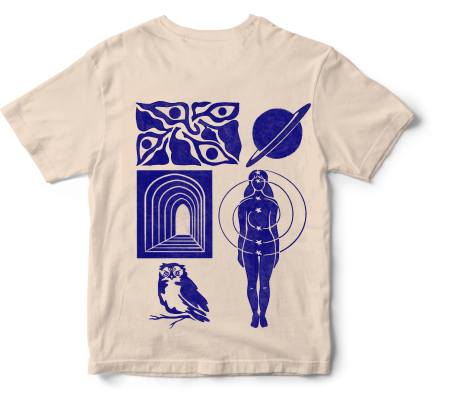
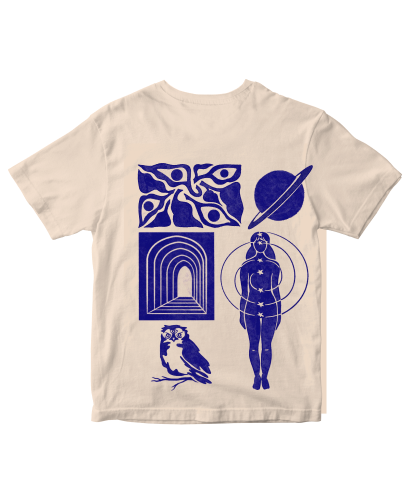
new features

diff --git a/src/app/home/home.component.html b/src/app/home/home.component.html
@@ -407,53 +407,56 @@
             </svg>
         </div>
         <div class="row justify-content-center mt-5">
-            <div class="col text-center store-selector" [class.active]="isStoreActive('sage')">
-                <img src="../../assets/img/star1.svg" class="star-store pointer w-70-px" (click)="onClickStore('sage')">
+            <div class="col text-center store-selector pointer" [class.active]="isStoreActive('sage')"
+                (click)="onClickStore('sage')">
+                <img src="../../assets/img/star1.svg" class="star-store w-70-px">
                 <p class="ff-britanica-bold fs-4 arch-store fn-sage-color">the sage</p>
             </div>
-            <div class="col text-center store-selector" [class.active]="isStoreActive('queen')">
-                <img src="../../assets/img/star2.svg" class="star-store pointer w-70-px"
-                    (click)="onClickStore('queen')">
+            <div class="col text-center store-selector pointer" [class.active]="isStoreActive('queen')"
+                (click)="onClickStore('queen')">
+                <img src="../../assets/img/star2.svg" class="star-store w-70-px">
                 <p class="ff-britanica-bold fs-4 arch-store fn-queen-color">the queen</p>
             </div>
-            <div class="col text-center store-selector" [class.active]="isStoreActive('warrior')">
-                <img src="../../assets/img/star3.svg" class="star-store pointer w-70-px"
-                    (click)="onClickStore('warrior')">
+            <div class="col text-center store-selector pointer" [class.active]="isStoreActive('warrior')"
+                (click)="onClickStore('warrior')">
+                <img src="../../assets/img/star3.svg" class="star-store w-70-px">
                 <p class="ff-britanica-bold fs-4 arch-store fn-warrior-color">the warrior</p>
             </div>
-            <div class="col text-center store-selector" [class.active]="isStoreActive('mother')">
-                <img src="../../assets/img/star4.svg" class="star-store pointer w-70-px"
-                    (click)="onClickStore('mother')">
+            <div class="col text-center store-selector pointer" [class.active]="isStoreActive('mother')"
+                (click)="onClickStore('mother')">
+                <img src="../../assets/img/star4.svg" class="star-store w-70-px">
                 <p class="ff-britanica-bold fs-4 arch-store fn-mother-color">the mother</p>
             </div>
-            <div class="col text-center store-selector" [class.active]="isStoreActive('lover')">
-                <img src="../../assets/img/star5.svg" class="star-store pointer w-70-px"
-                    (click)="onClickStore('lover')">
+            <div class="col text-center store-selector pointer" [class.active]="isStoreActive('lover')"
+                (click)="onClickStore('lover')">
+                <img src="../../assets/img/star5.svg" class="star-store w-70-px">
                 <p class="ff-britanica-bold fs-4 arch-store fn-lover-color">the lover</p>
             </div>
-            <div class="col text-center store-selector" [class.active]="isStoreActive('mystic')">
-                <img src="../../assets/img/star6.svg" class="star-store pointer w-70-px"
-                    (click)="onClickStore('mystic')">
+            <div class="col text-center store-selector pointer" [class.active]="isStoreActive('mystic')"
+                (click)="onClickStore('mystic')">
+                <img src="../../assets/img/star6.svg" class="star-store w-70-px">
                 <p class="ff-britanica-bold fs-4 arch-store fn-mystic-color">the mystic</p>
             </div>
-            <div class="col text-center store-selector" [class.active]="isStoreActive('maiden')">
-                <img src="../../assets/img/star7.svg" class="star-store pointer w-70-px"
-                    (click)="onClickStore('maiden')">
+            <div class="col text-center store-selector pointer" [class.active]="isStoreActive('maiden')"
+                (click)="onClickStore('maiden')">
+                <img src="../../assets/img/star7.svg" class="star-store w-70-px">
                 <p class="ff-britanica-bold fs-4 arch-store fn-maiden-color">the maiden</p>
             </div>
         </div>
         <div class="row mt-3" *ngIf="currentStoreId == 'sage'">
             <div class="col-4">
                 <div
-                    class="position-relative item-store border bd-theme border-sage-color d-flex justify-content-center">
-                    <img src="../../assets/img/front-sage.png" alt="" class="item-store-img object-fit-contain">
+                    class="pointer position-relative item-store border bd-theme border-sage-color d-flex justify-content-center">
+                    <img [src]="sageShirt" alt="" class="item-store-img object-fit-contain"
+                        (mouseover)="sageShirt = '../../assets/img/back-sage.png'"
+                        (mouseout)="sageShirt = '../../assets/img/front-sage.png'">
                     <div class="backsquare backsquare-sage"></div>
                 </div>
                 <p class="ff-britanica-bold fs-4 fn-sage-color">t-shirt</p>
             </div>
             <div class="col-4">
                 <div
-                    class="position-relative item-store border bd-theme border-sage-color d-flex justify-content-center">
+                    class="pointer position-relative item-store border bd-theme border-sage-color d-flex justify-content-center">
                     <img src="../../assets/img/bag-sage.png" alt="" class="item-store-img object-fit-contain">
                     <div class="backsquare backsquare-sage"></div>
                 </div>
@@ -461,7 +464,7 @@
             </div>
             <div class="col-4">
                 <div
-                    class="position-relative item-store border bd-theme border-sage-color d-flex justify-content-center">
+                    class="pointer position-relative item-store border bd-theme border-sage-color d-flex justify-content-center">
                     <img src="../../assets/img/poster-sage.png" alt="" class="item-store-img object-fit-contain">
                     <div class="backsquare backsquare-sage"></div>
                 </div>
@@ -471,15 +474,17 @@
         <div class="row mt-3" *ngIf="currentStoreId == 'queen'">
             <div class="col-4">
                 <div
-                    class="position-relative item-store border bd-theme border-queen-color d-flex justify-content-center">
-                    <img src="../../assets/img/front-queen.png" alt="" class="item-store-img object-fit-contain">
+                    class="pointer position-relative item-store border bd-theme border-queen-color d-flex justify-content-center">
+                    <img [src]="queenShirt" alt="" class="item-store-img object-fit-contain"
+                        (mouseover)="queenShirt = '../../assets/img/back-queen.png'"
+                        (mouseout)="queenShirt = '../../assets/img/front-queen.png'">
                     <div class="backsquare backsquare-queen"></div>
                 </div>
                 <p class="ff-britanica-bold fs-4 fn-queen-color">t-shirt</p>
             </div>
             <div class="col-4">
                 <div
-                    class="position-relative item-store border bd-theme border-queen-color d-flex justify-content-center">
+                    class="pointer position-relative item-store border bd-theme border-queen-color d-flex justify-content-center">
                     <img src="../../assets/img/bag-queen.png" alt="" class="item-store-img object-fit-contain">
                     <div class="backsquare backsquare-queen"></div>
                 </div>
@@ -487,7 +492,7 @@
             </div>
             <div class="col-4">
                 <div
-                    class="position-relative item-store border bd-theme border-queen-color d-flex justify-content-center">
+                    class="pointer position-relative item-store border bd-theme border-queen-color d-flex justify-content-center">
                     <img src="../../assets/img/poster-queen.png" alt="" class="item-store-img object-fit-contain">
                     <div class="backsquare backsquare-queen"></div>
                 </div>
@@ -497,15 +502,17 @@
         <div class="row mt-3" *ngIf="currentStoreId == 'warrior'">
             <div class="col-4">
                 <div
-                    class="position-relative item-store border bd-theme border-warrior-color d-flex justify-content-center">
-                    <img src="../../assets/img/front-warrior.png" alt="" class="item-store-img object-fit-contain">
+                    class="pointer position-relative item-store border bd-theme border-warrior-color d-flex justify-content-center">
+                    <img [src]="warriorShirt" alt="" class="item-store-img object-fit-contain"
+                        (mouseover)="warriorShirt = '../../assets/img/back-warrior.png'"
+                        (mouseout)="warriorShirt = '../../assets/img/front-warrior.png'">
                     <div class="backsquare backsquare-warrior"></div>
                 </div>
                 <p class="ff-britanica-bold fs-4 fn-warrior-color">t-shirt</p>
             </div>
             <div class="col-4">
                 <div
-                    class="position-relative item-store border bd-theme border-warrior-color d-flex justify-content-center">
+                    class="pointer position-relative item-store border bd-theme border-warrior-color d-flex justify-content-center">
                     <img src="../../assets/img/bag-warrior.png" alt="" class="item-store-img object-fit-contain">
                     <div class="backsquare backsquare-warrior"></div>
                 </div>
@@ -513,7 +520,7 @@
             </div>
             <div class="col-4">
                 <div
-                    class="position-relative item-store border bd-theme border-warrior-color d-flex justify-content-center">
+                    class="pointer position-relative item-store border bd-theme border-warrior-color d-flex justify-content-center">
                     <img src="../../assets/img/poster-warrior.png" alt="" class="item-store-img object-fit-contain">
                     <div class="backsquare backsquare-warrior"></div>
                 </div>
@@ -523,15 +530,17 @@
         <div class="row mt-3" *ngIf="currentStoreId == 'mother'">
             <div class="col-4">
                 <div
-                    class="position-relative item-store border bd-theme border-mother-color d-flex justify-content-center">
-                    <img src="../../assets/img/front-mother.png" alt="" class="item-store-img object-fit-contain">
+                    class="pointer position-relative item-store border bd-theme border-mother-color d-flex justify-content-center">
+                    <img [src]="motherShirt" alt="" class="item-store-img object-fit-contain"
+                        (mouseover)="motherShirt = '../../assets/img/back-mother.png'"
+                        (mouseout)="motherShirt = '../../assets/img/front-mother.png'">
                     <div class="backsquare backsquare-mother"></div>
                 </div>
                 <p class="ff-britanica-bold fs-4 fn-mother-color">t-shirt</p>
             </div>
             <div class="col-4">
                 <div
-                    class="position-relative item-store border bd-theme border-mother-color d-flex justify-content-center">
+                    class="pointer position-relative item-store border bd-theme border-mother-color d-flex justify-content-center">
                     <img src="../../assets/img/bag-mother.png" alt="" class="item-store-img object-fit-contain">
                     <div class="backsquare backsquare-mother"></div>
                 </div>
@@ -539,7 +548,7 @@
             </div>
             <div class="col-4">
                 <div
-                    class="position-relative item-store border bd-theme border-mother-color d-flex justify-content-center">
+                    class="pointer position-relative item-store border bd-theme border-mother-color d-flex justify-content-center">
                     <img src="../../assets/img/poster-mother.png" alt="" class="item-store-img object-fit-contain">
                     <div class="backsquare backsquare-mother"></div>
                 </div>
@@ -549,15 +558,17 @@
         <div class="row mt-3" *ngIf="currentStoreId == 'lover'">
             <div class="col-4">
                 <div
-                    class="position-relative item-store border bd-theme border-lover-color d-flex justify-content-center">
-                    <img src="../../assets/img/front-lover.png" alt="" class="item-store-img object-fit-contain">
+                    class="pointer position-relative item-store border bd-theme border-lover-color d-flex justify-content-center">
+                    <img [src]="loverShirt" alt="" class="item-store-img object-fit-contain"
+                        (mouseover)="loverShirt = '../../assets/img/back-lover.png'"
+                        (mouseout)="loverShirt = '../../assets/img/front-lover.png'">
                     <div class="backsquare backsquare-lover"></div>
                 </div>
                 <p class="ff-britanica-bold fs-4 fn-lover-color">t-shirt</p>
             </div>
             <div class="col-4">
                 <div
-                    class="position-relative item-store border bd-theme border-lover-color d-flex justify-content-center">
+                    class="pointer position-relative item-store border bd-theme border-lover-color d-flex justify-content-center">
                     <img src="../../assets/img/bag-lover.png" alt="" class="item-store-img object-fit-contain">
                     <div class="backsquare backsquare-lover"></div>
                 </div>
@@ -565,7 +576,7 @@
             </div>
             <div class="col-4">
                 <div
-                    class="position-relative item-store border bd-theme border-lover-color d-flex justify-content-center">
+                    class="pointer position-relative item-store border bd-theme border-lover-color d-flex justify-content-center">
                     <img src="../../assets/img/poster-lover.png" alt="" class="item-store-img object-fit-contain">
                     <div class="backsquare backsquare-lover"></div>
                 </div>
@@ -575,15 +586,17 @@
         <div class="row mt-3" *ngIf="currentStoreId == 'mystic'">
             <div class="col-4">
                 <div
-                    class="position-relative item-store border bd-theme border-mystic-color d-flex justify-content-center">
-                    <img src="../../assets/img/front-mystic.png" alt="" class="item-store-img object-fit-contain">
+                    class="pointer position-relative item-store border bd-theme border-mystic-color d-flex justify-content-center">
+                    <img [src]="mysticShirt" alt="" class="item-store-img object-fit-contain"
+                        (mouseover)="mysticShirt = '../../assets/img/back-mystic.png'"
+                        (mouseout)="mysticShirt = '../../assets/img/front-mystic.png'">
                     <div class="backsquare backsquare-mystic"></div>
                 </div>
                 <p class="ff-britanica-bold fs-4 fn-mystic-color">t-shirt</p>
             </div>
             <div class="col-4">
                 <div
-                    class="position-relative item-store border bd-theme border-mystic-color d-flex justify-content-center">
+                    class="pointer position-relative item-store border bd-theme border-mystic-color d-flex justify-content-center">
                     <img src="../../assets/img/bag-mystic.png" alt="" class="item-store-img object-fit-contain">
                     <div class="backsquare backsquare-mystic"></div>
                 </div>
@@ -591,7 +604,7 @@
             </div>
             <div class="col-4">
                 <div
-                    class="position-relative item-store border bd-theme border-mystic-color d-flex justify-content-center">
+                    class="pointer position-relative item-store border bd-theme border-mystic-color d-flex justify-content-center">
                     <img src="../../assets/img/poster-mystic.png" alt="" class="item-store-img object-fit-contain">
                     <div class="backsquare backsquare-mystic"></div>
                 </div>
@@ -601,15 +614,17 @@
         <div class="row mt-3" *ngIf="currentStoreId == 'maiden'">
             <div class="col-4">
                 <div
-                    class="position-relative item-store border bd-theme border-maiden-color d-flex justify-content-center">
-                    <img src="../../assets/img/front-maiden.png" alt="" class="item-store-img object-fit-contain">
+                    class="pointer position-relative item-store border bd-theme border-maiden-color d-flex justify-content-center">
+                    <img [src]="maidenShirt" alt="" class="item-store-img object-fit-contain"
+                        (mouseover)="maidenShirt = '../../assets/img/back-maiden.png'"
+                        (mouseout)="maidenShirt = '../../assets/img/front-maiden.png'">
                     <div class="backsquare backsquare-maiden"></div>
                 </div>
                 <p class="ff-britanica-bold fs-4 fn-maiden-color">t-shirt</p>
             </div>
             <div class="col-4">
                 <div
-                    class="position-relative item-store border bd-theme border-maiden-color d-flex justify-content-center">
+                    class="pointer position-relative item-store border bd-theme border-maiden-color d-flex justify-content-center">
                     <img src="../../assets/img/bag-maiden.png" alt="" class="item-store-img object-fit-contain">
                     <div class="backsquare backsquare-maiden"></div>
                 </div>
@@ -617,7 +632,7 @@
             </div>
             <div class="col-4">
                 <div
-                    class="position-relative item-store border bd-theme border-maiden-color d-flex justify-content-center">
+                    class="pointer position-relative item-store border bd-theme border-maiden-color d-flex justify-content-center">
                     <img src="../../assets/img/poster-maiden.png" alt="" class="item-store-img object-fit-contain">
                     <div class="backsquare backsquare-maiden"></div>
                 </div>

diff --git a/src/app/home/home.component.ts b/src/app/home/home.component.ts
@@ -24,6 +24,14 @@ export class HomeComponent implements AfterViewInit {
   public currentCardId: string = '';
   public currentStoreId: string = 'sage';
 
+  public sageShirt: string = '../../assets/img/front-sage.png';
+  public queenShirt: string = '../../assets/img/front-queen.png';
+  public warriorShirt: string = '../../assets/img/front-warrior.png';
+  public motherShirt: string = '../../assets/img/front-mother.png';
+  public loverShirt: string = '../../assets/img/front-lover.png';
+  public mysticShirt: string = '../../assets/img/front-mystic.png';
+  public maidenShirt: string = '../../assets/img/front-maiden.png';
+
   ngAfterViewInit(): void {
     setTimeout(() => {
       this.windowWidth = window.innerWidth;
@@ -63,7 +71,7 @@ export class HomeComponent implements AfterViewInit {
   }
 
   onClickStore(id: string) {
-    this.currentStoreId = id === this.currentStoreId ? '' : id;
+    this.currentStoreId = id;
   }
 
   isStoreActive(id: string) {

diff --git a/src/app/home/home.component.scss b/src/app/home/home.component.scss
@@ -151,3 +151,21 @@
     height: 90%;
     margin: auto;
 }
+
+.item-store {
+
+    img,
+    .backsquare {
+        transition-property: scale;
+        transition-duration: 0.6s;
+        scale: 1;
+    }
+
+    &:hover {
+
+        img,
+        .backsquare {
+            scale: 1.05;
+        }
+    }
+}
